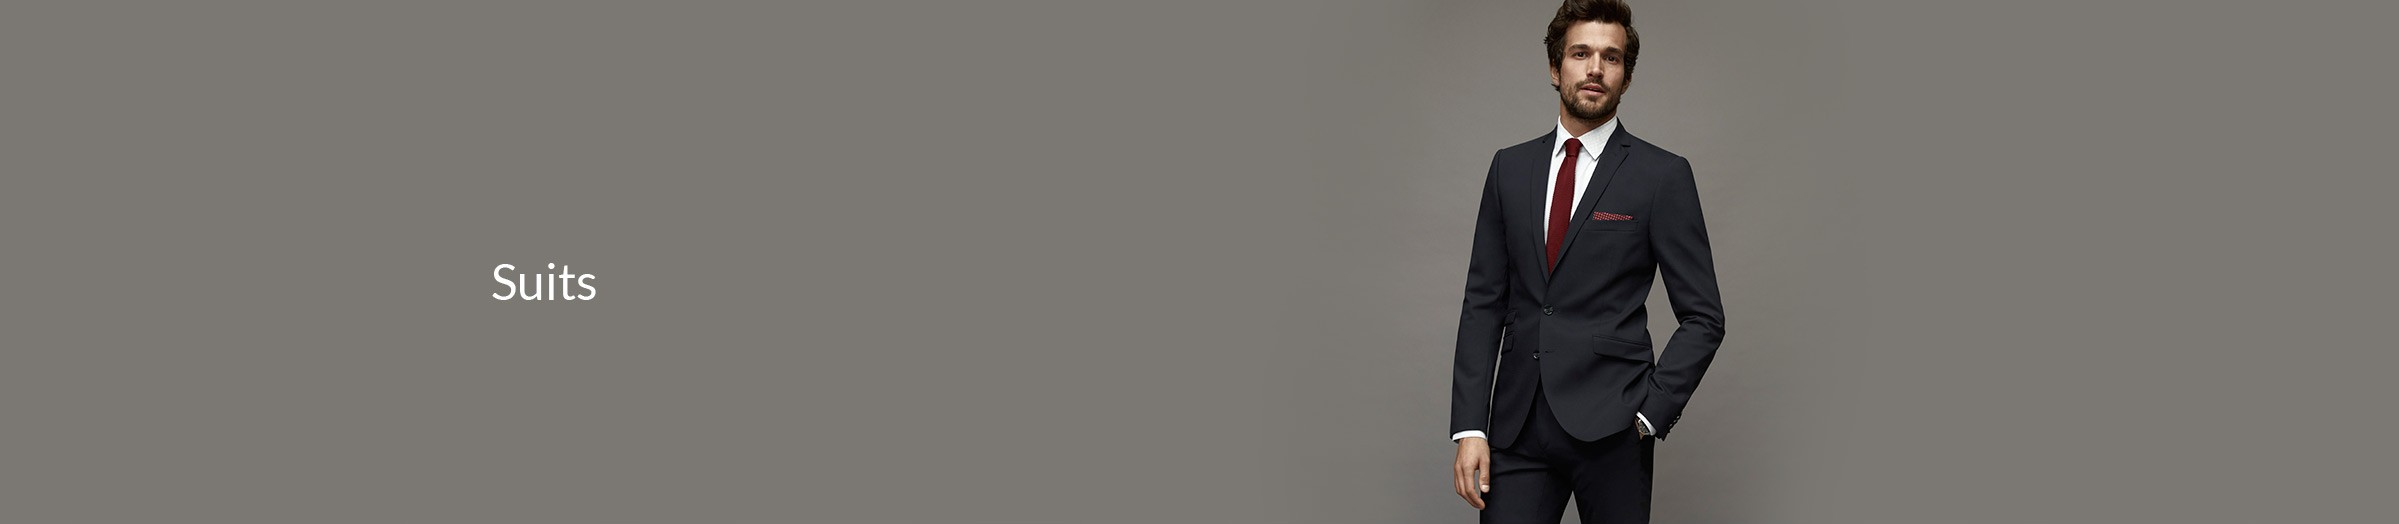
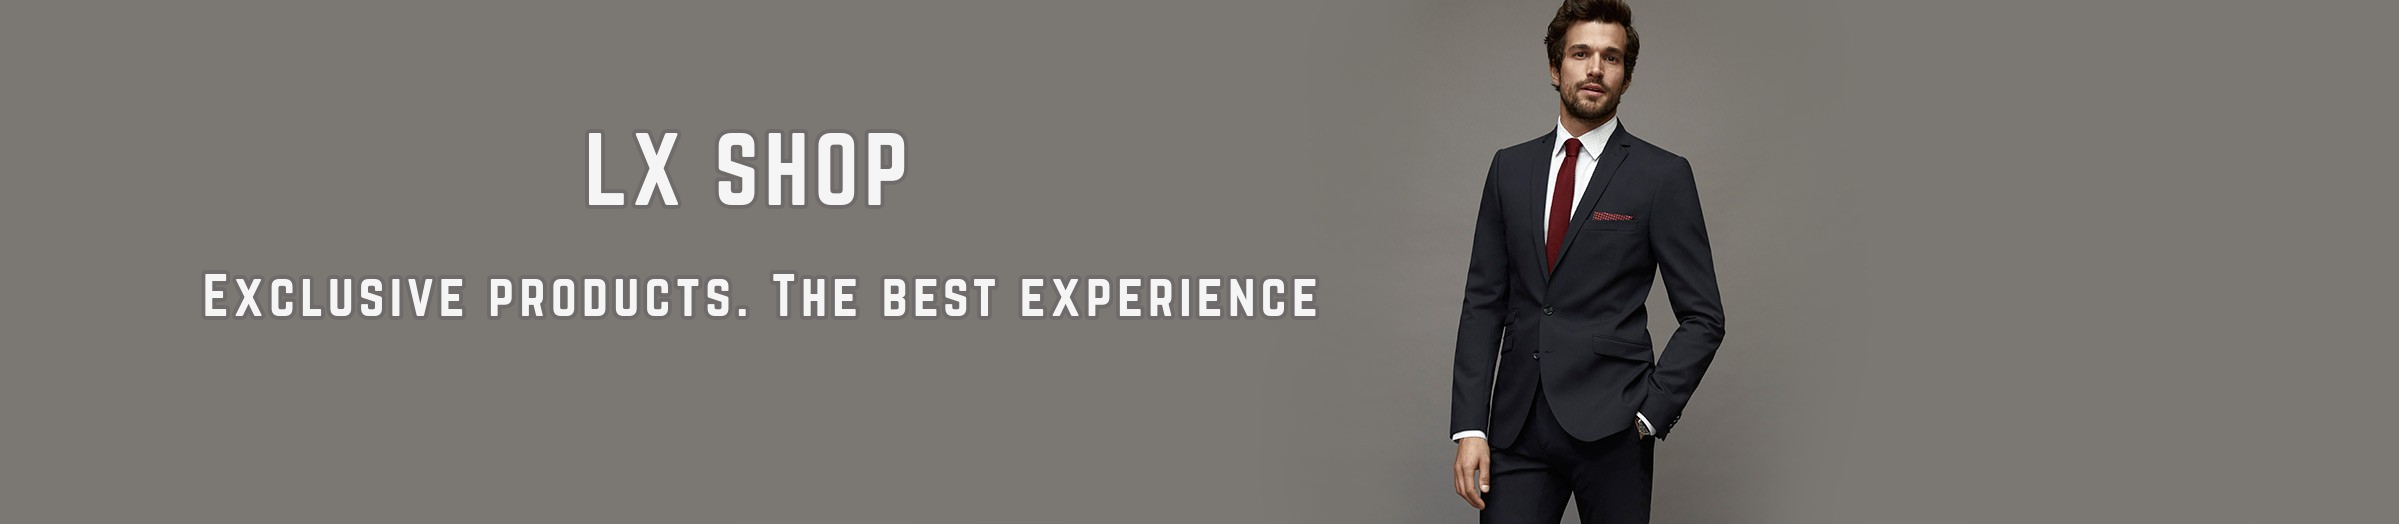
mixed changes

Changed region(s): [[0.0617, 0.5191, 0.5552, 0.6107], [0.2468, 0.2443, 0.401, 0.3969]]

diff --git a/index.html b/index.html
@@ -43,7 +43,13 @@
       <nav class="navbar fixed-top navbar-collapse p-0 border navbar-light justify-content-start" style="background-color: white">
         <!--Logo-->
         <a href="index.html" class="navbar-brand p-0 d-none d-md-inline" ><img src="img/logo-128.png" style="height: 80px" alt=""></a>
+        <form class="form-inline mx-auto w-75 d-flex">
+            <input class="form-control w-75" type="search" placeholder="Buscar" aria-label="Search" style="border-color: #43394c">
+            <button class="btn float-right" type="submit" style="background-color: #43394c; color: white">Buscar</button>
 
+        </form>
+
+        <a href="#" class="d-inline navbar-brand "><img src="img/shopping-cart-icon.png" alt="" style="height: 30px"></a>
         <button class="navbar-toggler" type="button" data-toggle="collapse" data-target="#menu">
           <span class="navbar-toggler-icon"></span>
         </button>
@@ -55,16 +61,16 @@
             <li class="nav-item"><a href="#" class="nav-link"> Suits </a></li>
             <li class="nav-item"><a href="#" class="nav-link"> Ties </a></li>
             <li class="nav-item"><a href="#" class="nav-link"> Watches </a></li>
+            <li class="nav-item"><a href="#" class="nav-link"> Socks </a></li>
+            <li class="nav-item"><a href="#" class="nav-link"> Glasses </a></li>
+            <li class="nav-item"><a href="#" class="nav-link"> T-shirts </a></li>
+            <li class="nav-item"><a href="#" class="nav-link"> Pants </a></li>
+            <li class="nav-item"><a href="#" class="nav-link"> Sweaters </a></li>
           </ul>
+
         </div>
 
-        <form class="form-inline mx-auto w-75 d-flex">
-            <input class="form-control w-75" type="search" placeholder="Buscar" aria-label="Search" style="border-color: #43394c">
-            <button class="btn float-right" type="submit" style="background-color: #43394c; color: white">Buscar</button>
 
-        </form>
-
-        <a href="#" class="d-inline navbar-brand "><img src="img/shopping-cart-icon.png" alt="" style="height: 30px"></a>
 
 
       </nav>
@@ -75,42 +81,18 @@
 
 
 
-<div class="container-fluid p-0" style="height: 300px ;margin-top: 82px">
-
-
-  <div id="principalCarousel" class="carousel slide" data-ride="carousel">
-    <div class="carousel-inner">
-      <div class="carousel-item">
-        <a href="index.html"><img src="img/front-example3.jpg" alt="" class="w-100"></a>
-      </div>
-      <div class="carousel-item active">
-        <a href="index.html"><img src="img/front-example8.jpg" alt="" class="w-100"></a>
-      </div>
-    </div>
-
-
-    <a class="carousel-control-prev " href="#principalCarousel" role="button" data-slide="prev">
-      <span class="carousel-control-prev-icon bg-dark mr-5" aria-hidden="true"></span>
-      <span class="sr-only">Previous</span>
-    </a>
-    <a class="carousel-control-next" href="#principalCarousel" role="button" data-slide="next">
-      <span class="carousel-control-next-icon bg-dark ml-5" aria-hidden="true"></span>
-      <span class="sr-only">Next</span>
-    </a>
-  </div>
-
-
-
+<div class="container-fluid p-0" style="margin-top: 82px">
+  <a href="index.html"><img src="img/front-example8.jpg" alt="" class="w-100"></a>
 </div>
 
 
 <!-- Categorías -->
 
-<container>
-  <h1 class="rounded d-none d-md-block pt-5 pl-5" style="color: #43394c">Categorías</h1>
-</container>
+<container-fluid >
+  <h1 class="rounded d-none d-md-block mt-5 text-center">Shop by category</h1>
+</container-fluid>
 
-<div class="container-fluid d-none d-md-block bg-dark" >
+<div class="container-fluid d-none d-md-block" >
   <div id="carouselExampleIndicators" class="carousel slide carousel-fade" data-ride="carousel">
 
     <div class="carousel-inner px-5  ">
@@ -185,15 +167,15 @@
 
 
 <container-fluid>
-  <h1 class="rounded  pt-5 pl-5 " style="color: #43394c">Productos destacados</h1>
+  <h1 class="rounded  mt-5 text-center">Sale</h1>
 </container-fluid>
 
-<div class="row container-fluid bg-dark " >
+<div class="row container-fluid" >
   <div class="col-6  p-3"><img src="img/destacados/p-F-BV3.jpg" class="img-fluid rounded" alt="" ></div>
   <div class="col-6  p-3"><img src="img/destacados/rolex-1.jpg" class="img-fluid rounded" alt="" ></div>
 
 </div>
-<div class="row container-fluid bg-dark">
+<div class="row container-fluid">
   <div class="col-3  p-3"><img src="img/destacados/pants.jpg" class="img-fluid rounded" alt="" ></div>
   <div class="col-3  p-3"><img src="img/destacados/floral-tie.jpg" class="img-fluid rounded" alt="" ></div>
   <div class="col-3  p-3"><img src="img/destacados/belt.jpg" class="img-fluid rounded" alt="" ></div>

diff --git a/css/main.css b/css/main.css
@@ -1,7 +1,7 @@
 .card-img-top {
   height: 100px;
   width: 100px;
-  border: solid white 4px;
+  border: solid #43394c 2px;
   border-radius: 10px !important;
 
 }
@@ -13,4 +13,11 @@
   margin-left: 40px;
   border: none;
   background: none;
+}
+
+body {
+  font-family: "Garamond" ;
+}
+h1 {
+  color: #43394c;
 }
